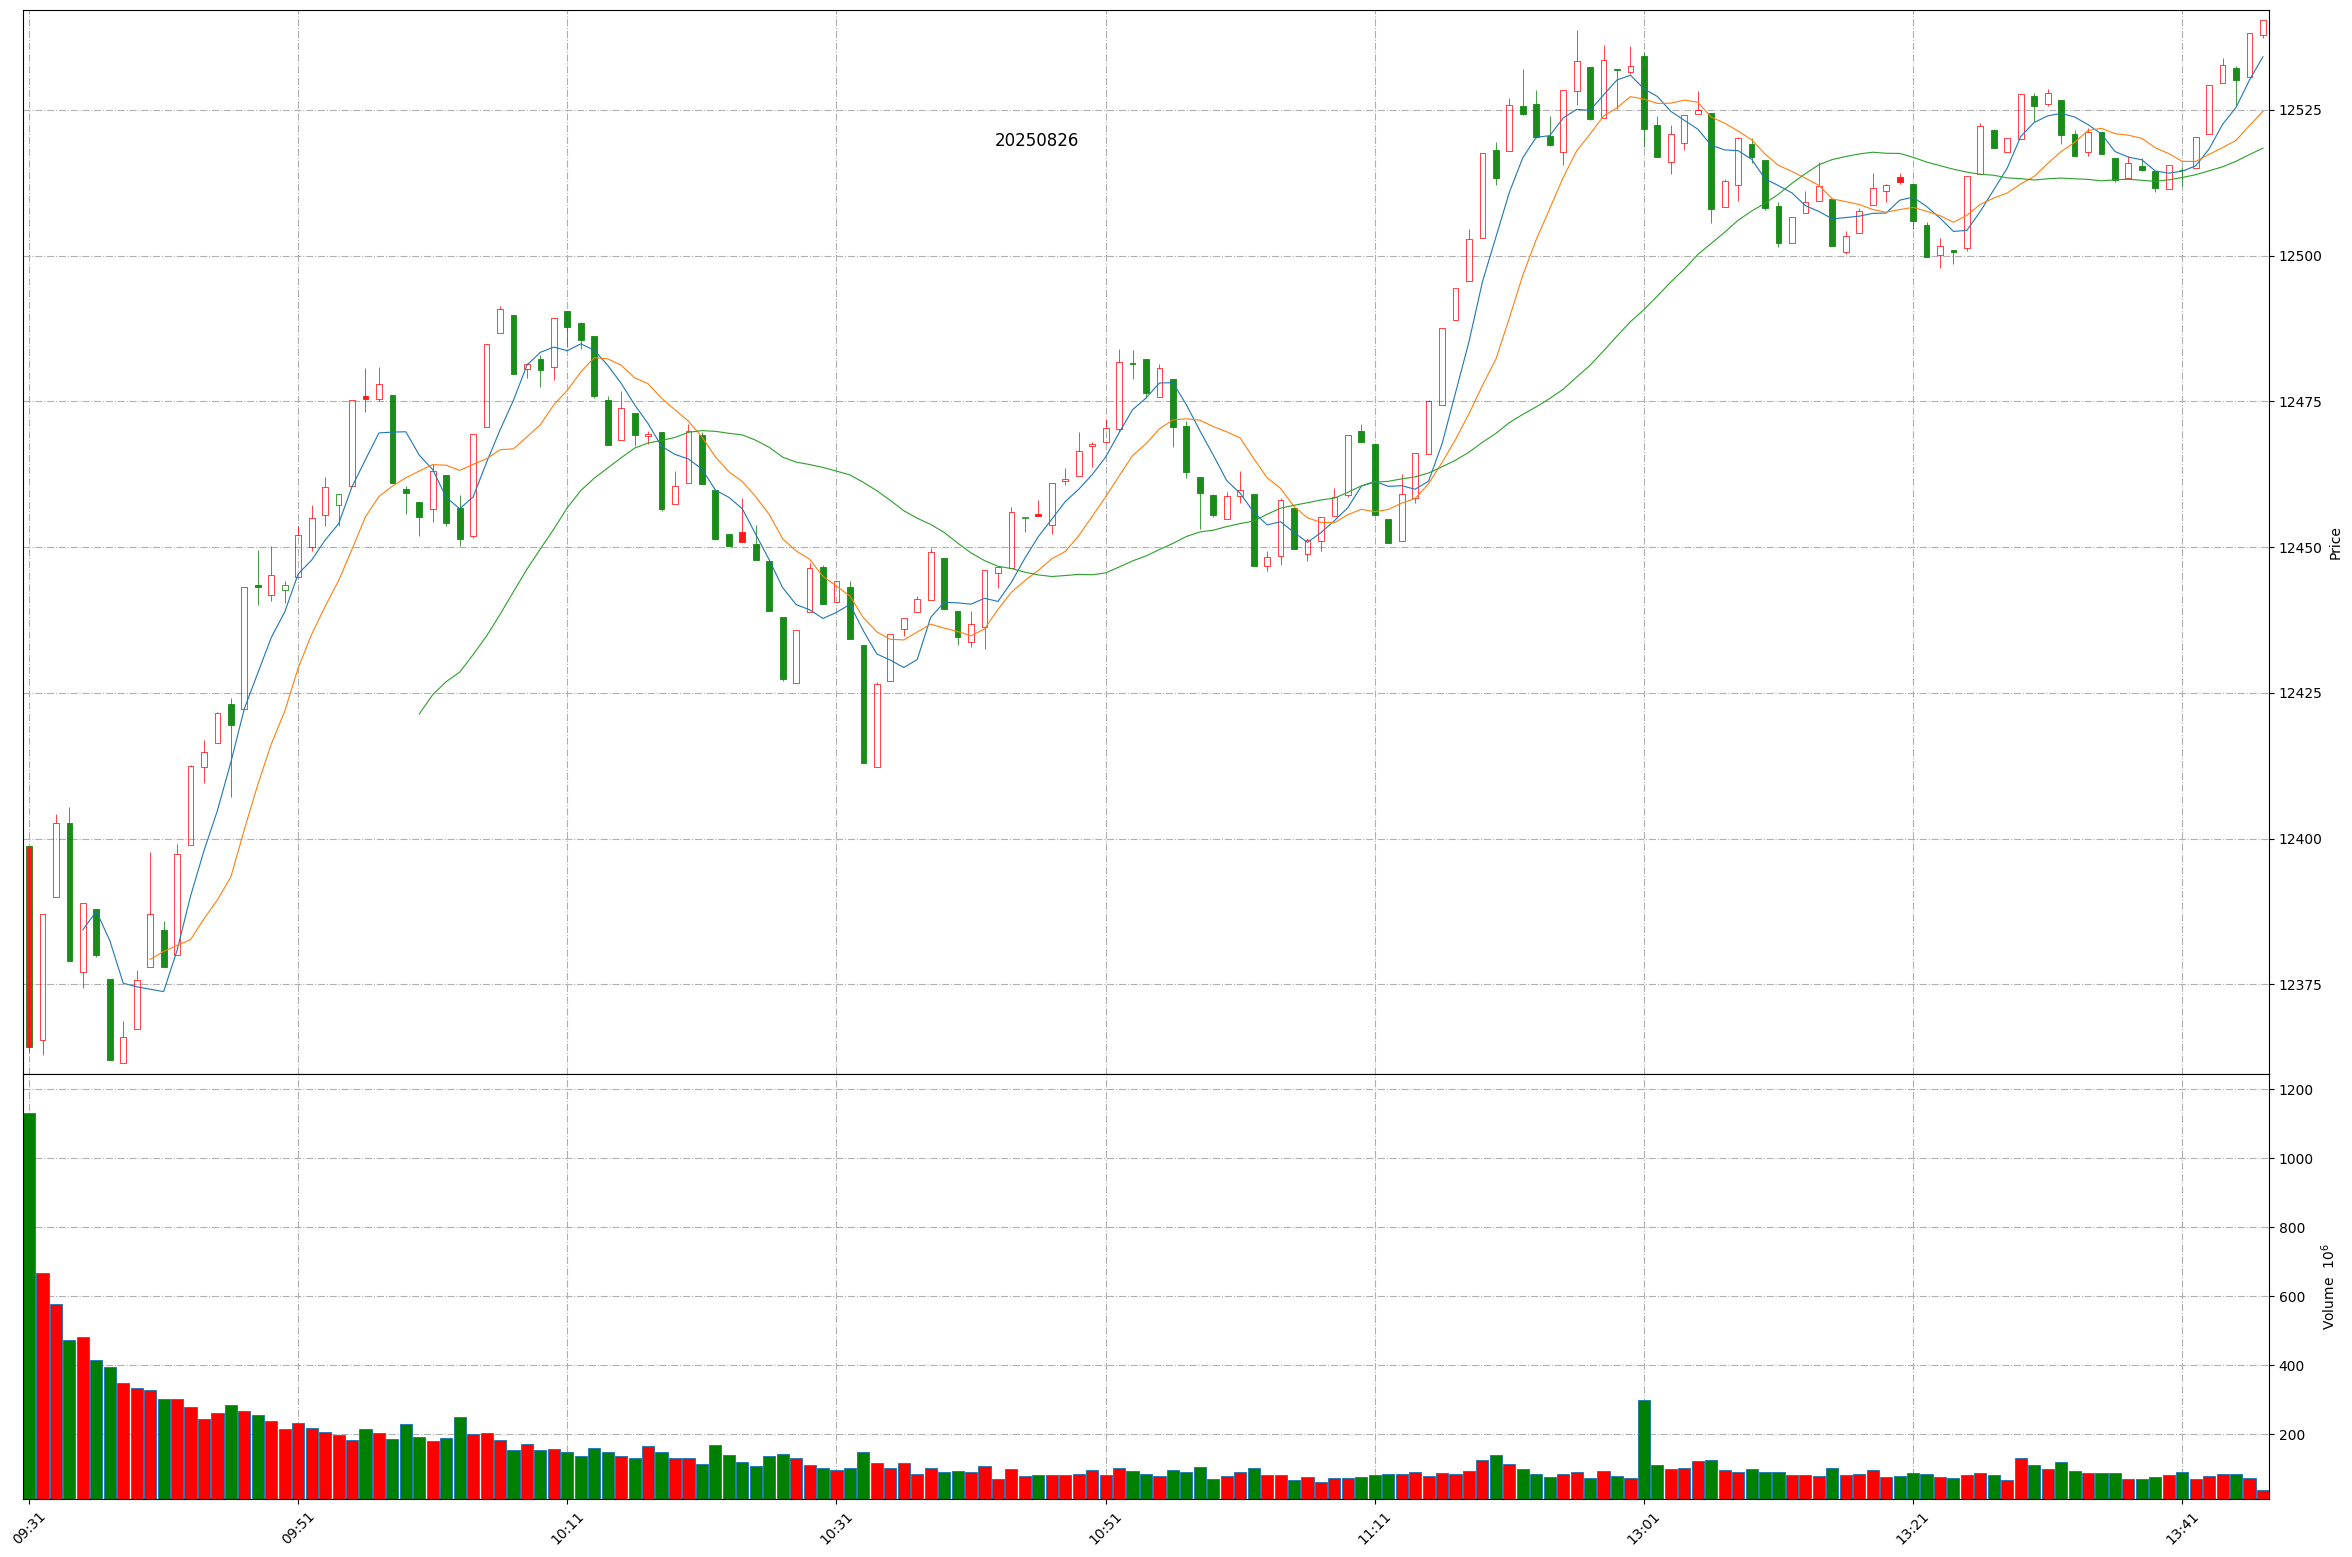
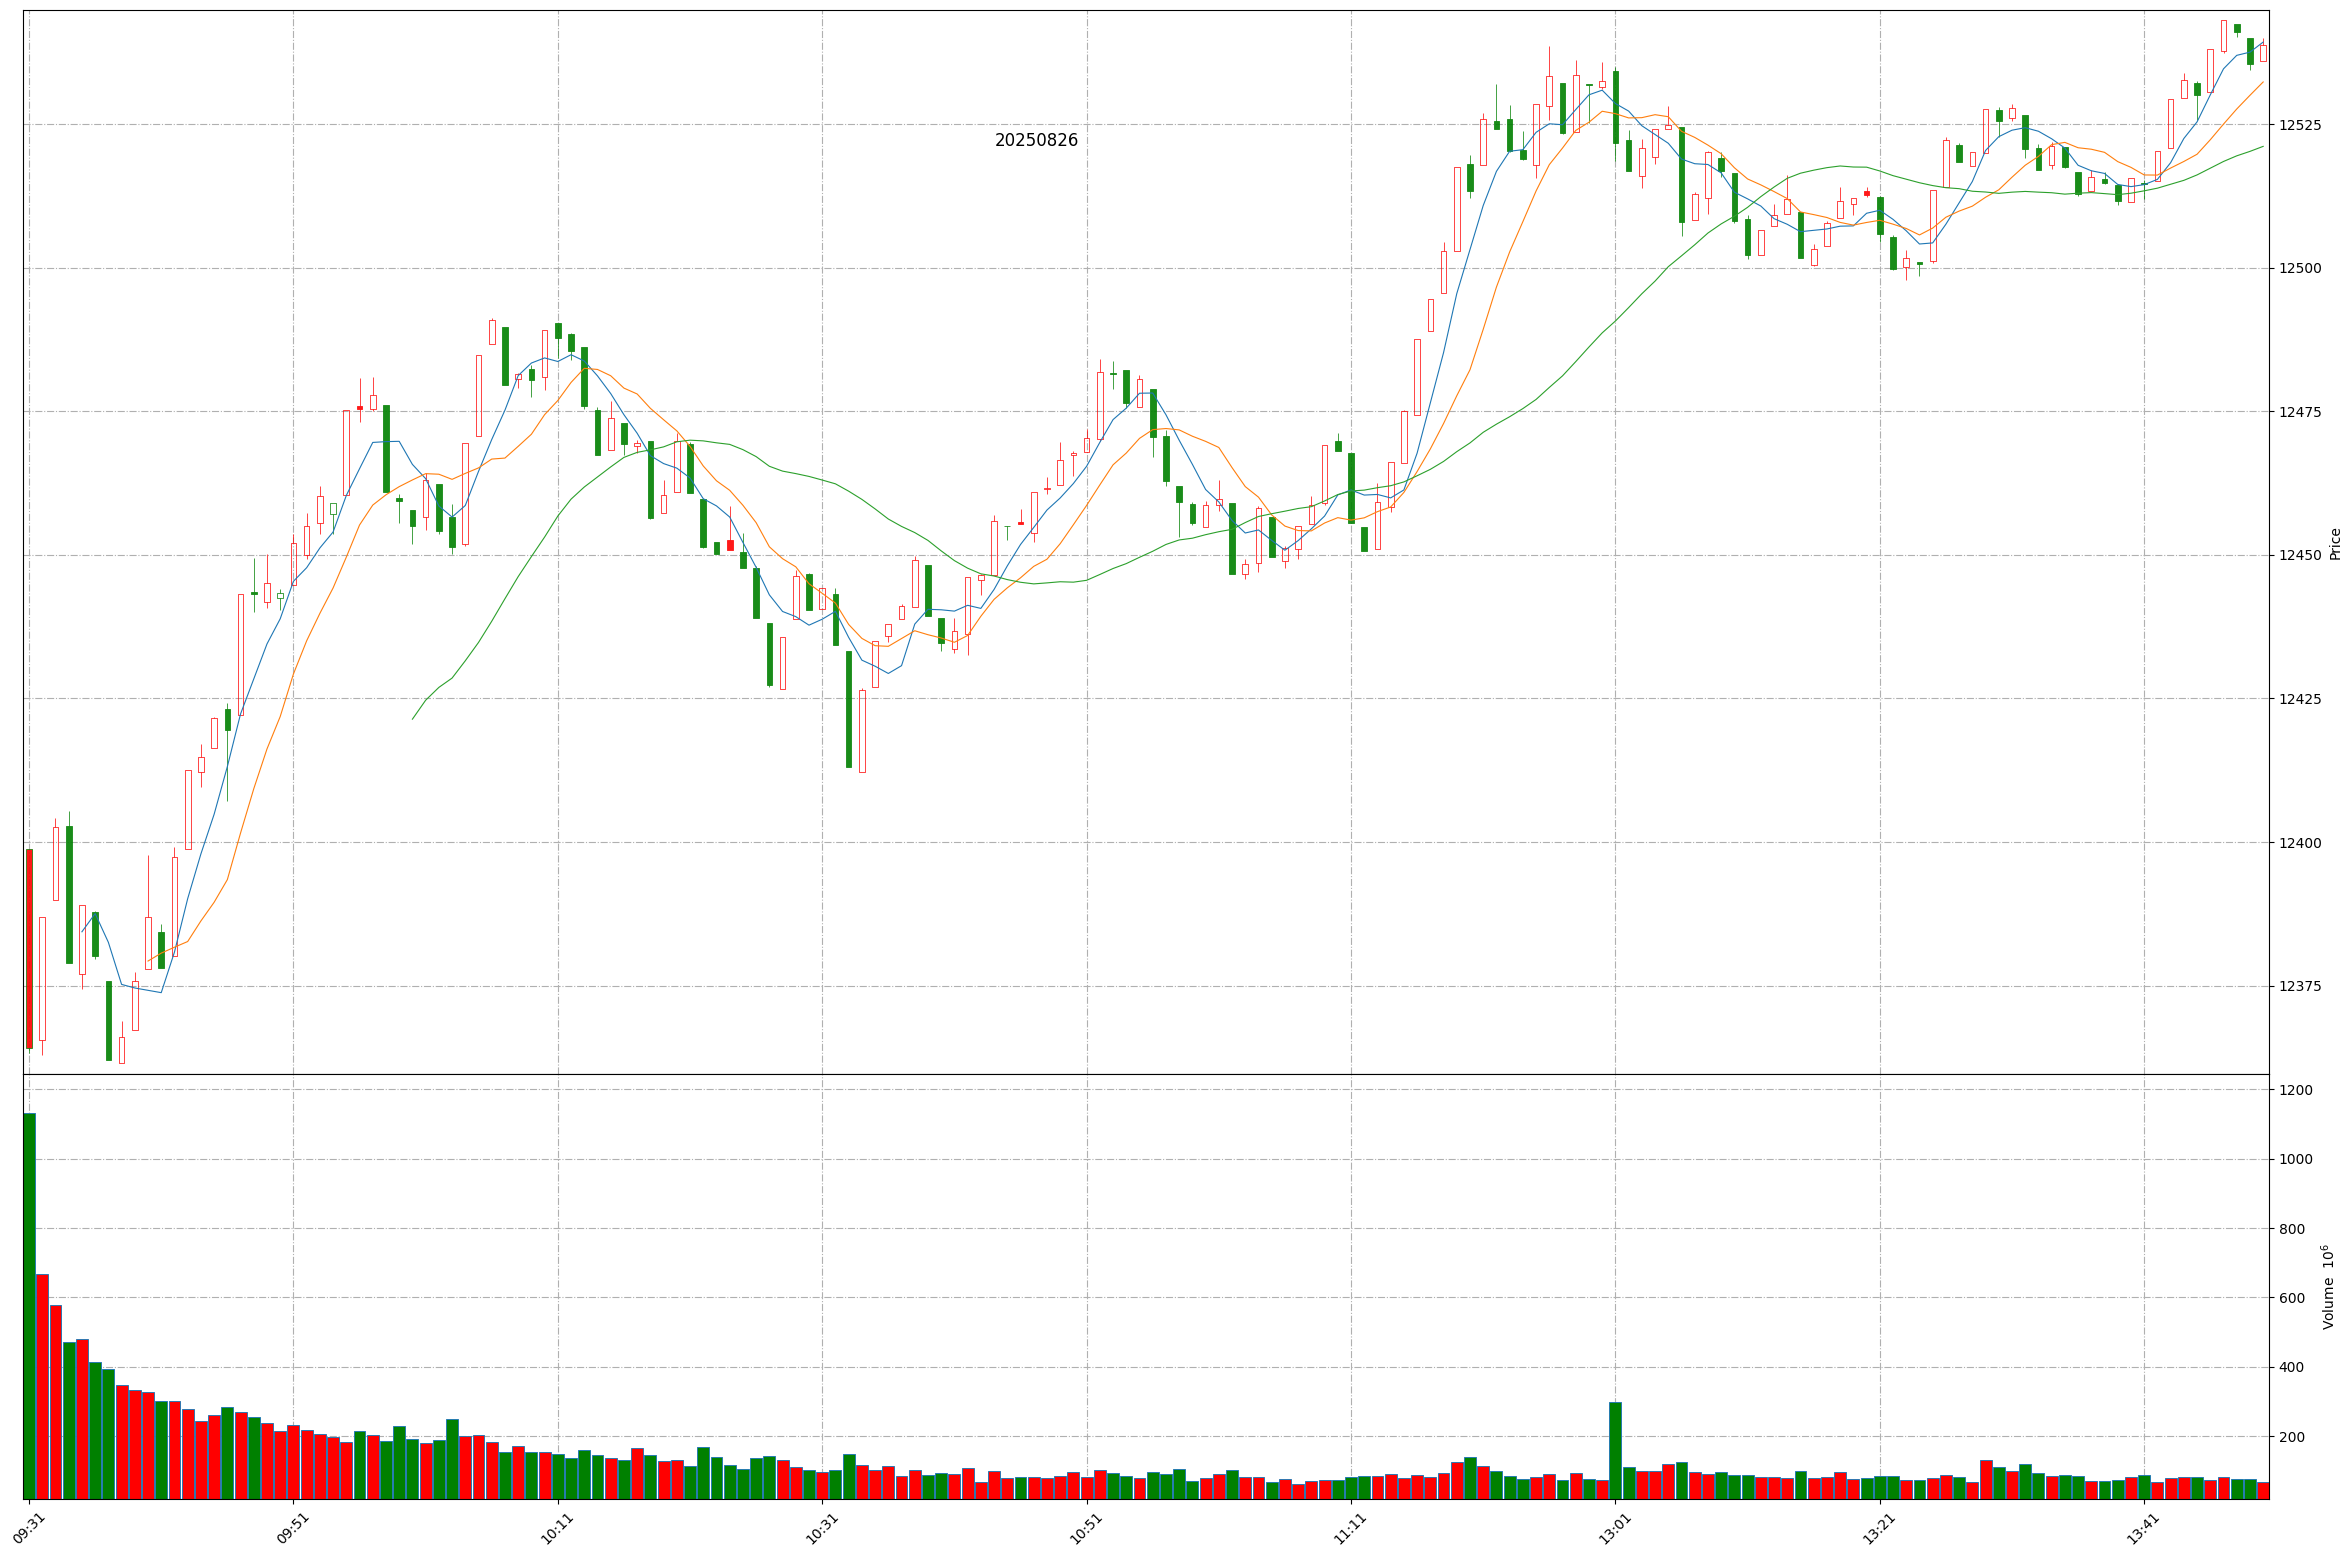
Github action update at 2025-08-26 13:50:10.

diff --git a/README.md b/README.md
@@ -1,11 +1,11 @@
 
 # Daily-A-share-market-quotes 每日 A 股指数（5min 更新）- 20250826
 
-### 上证指数 20250826 13:46
+### 上证指数 20250826 13:50
 ![](./fig/2025/8/20250826-sh000001.png)
 
-### 深证成指 20250826 13:46
+### 深证成指 20250826 13:50
 ![](./fig/2025/8/20250826-sz399001.png)
 
-### 北证50 20250826 13:46
+### 北证50 20250826 13:50
 ![](./fig/2025/8/20250826-bj899050.png)
